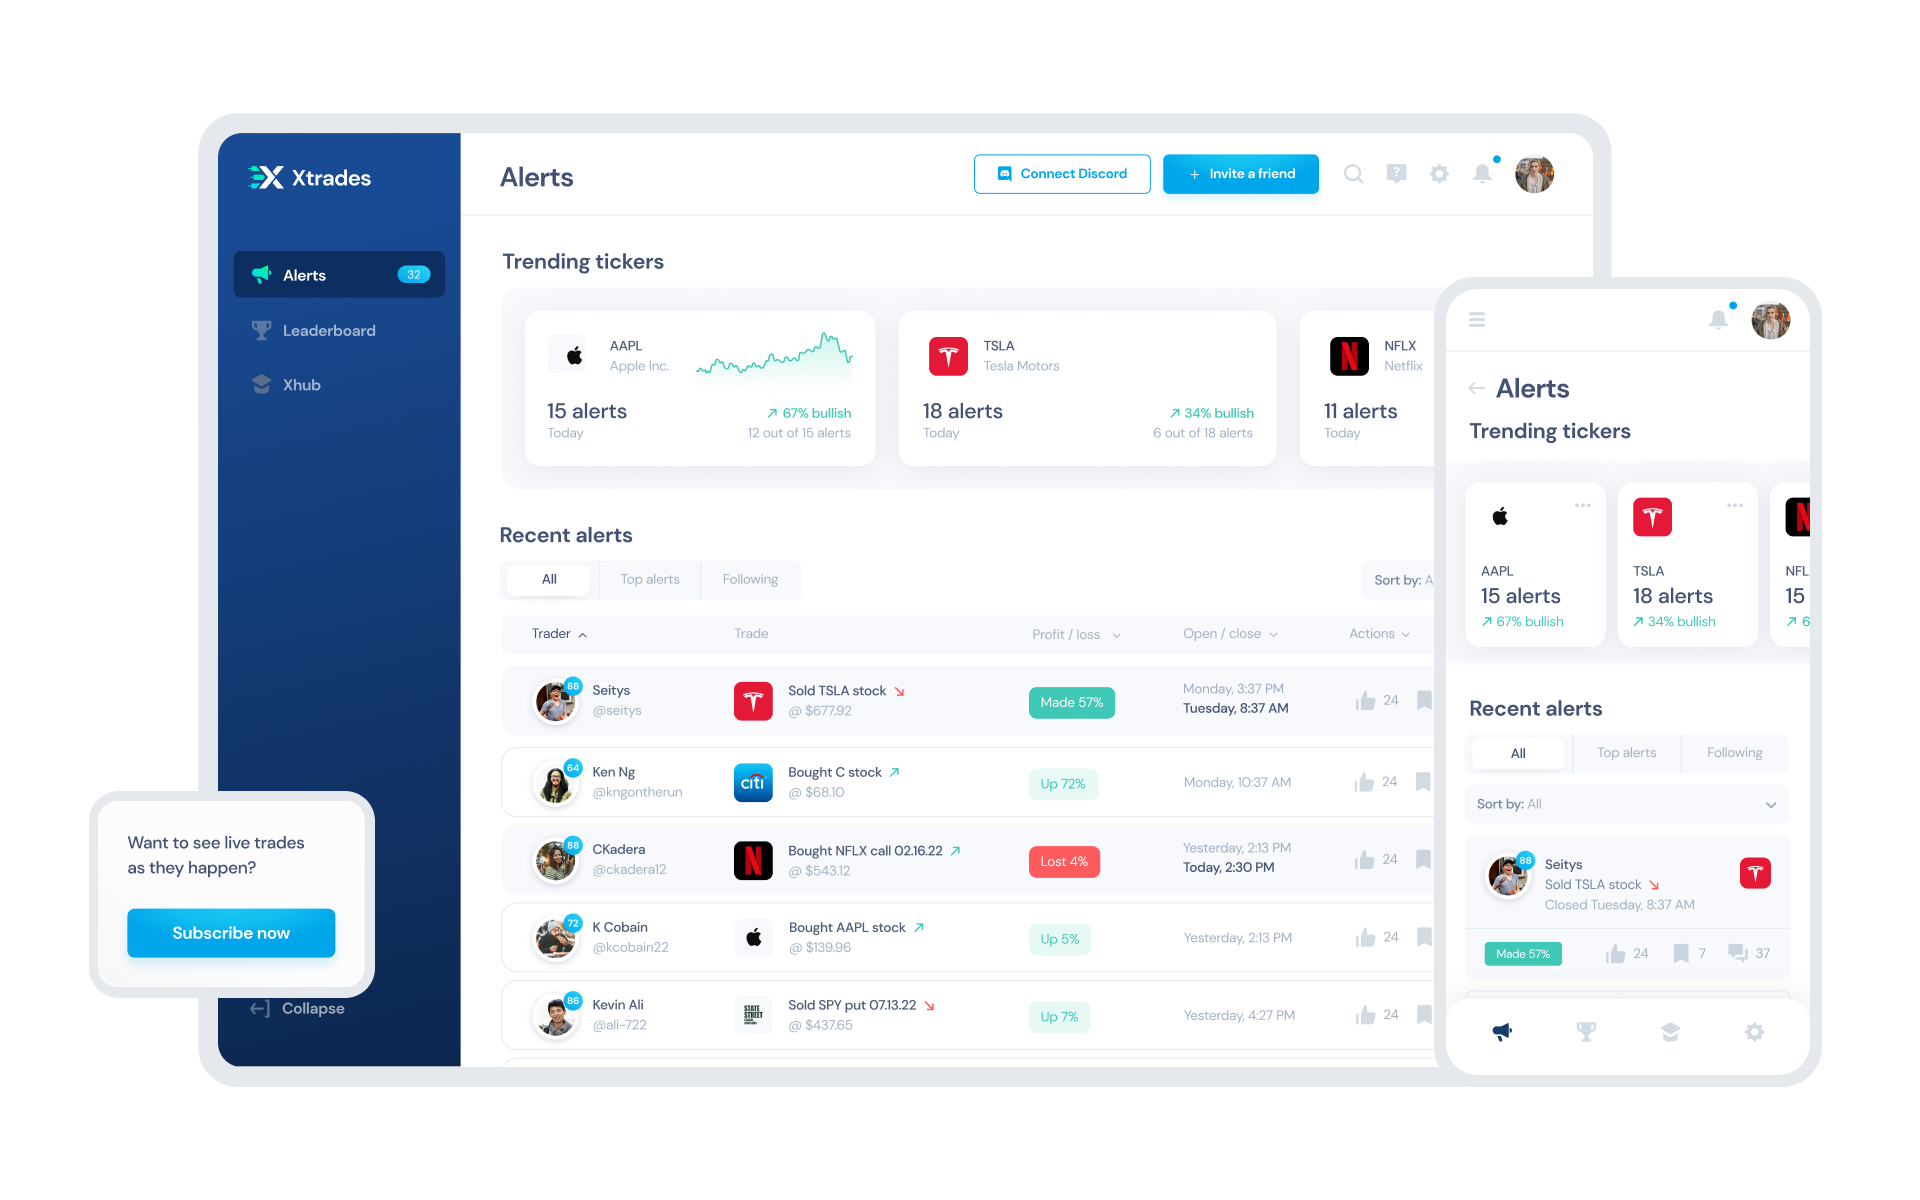
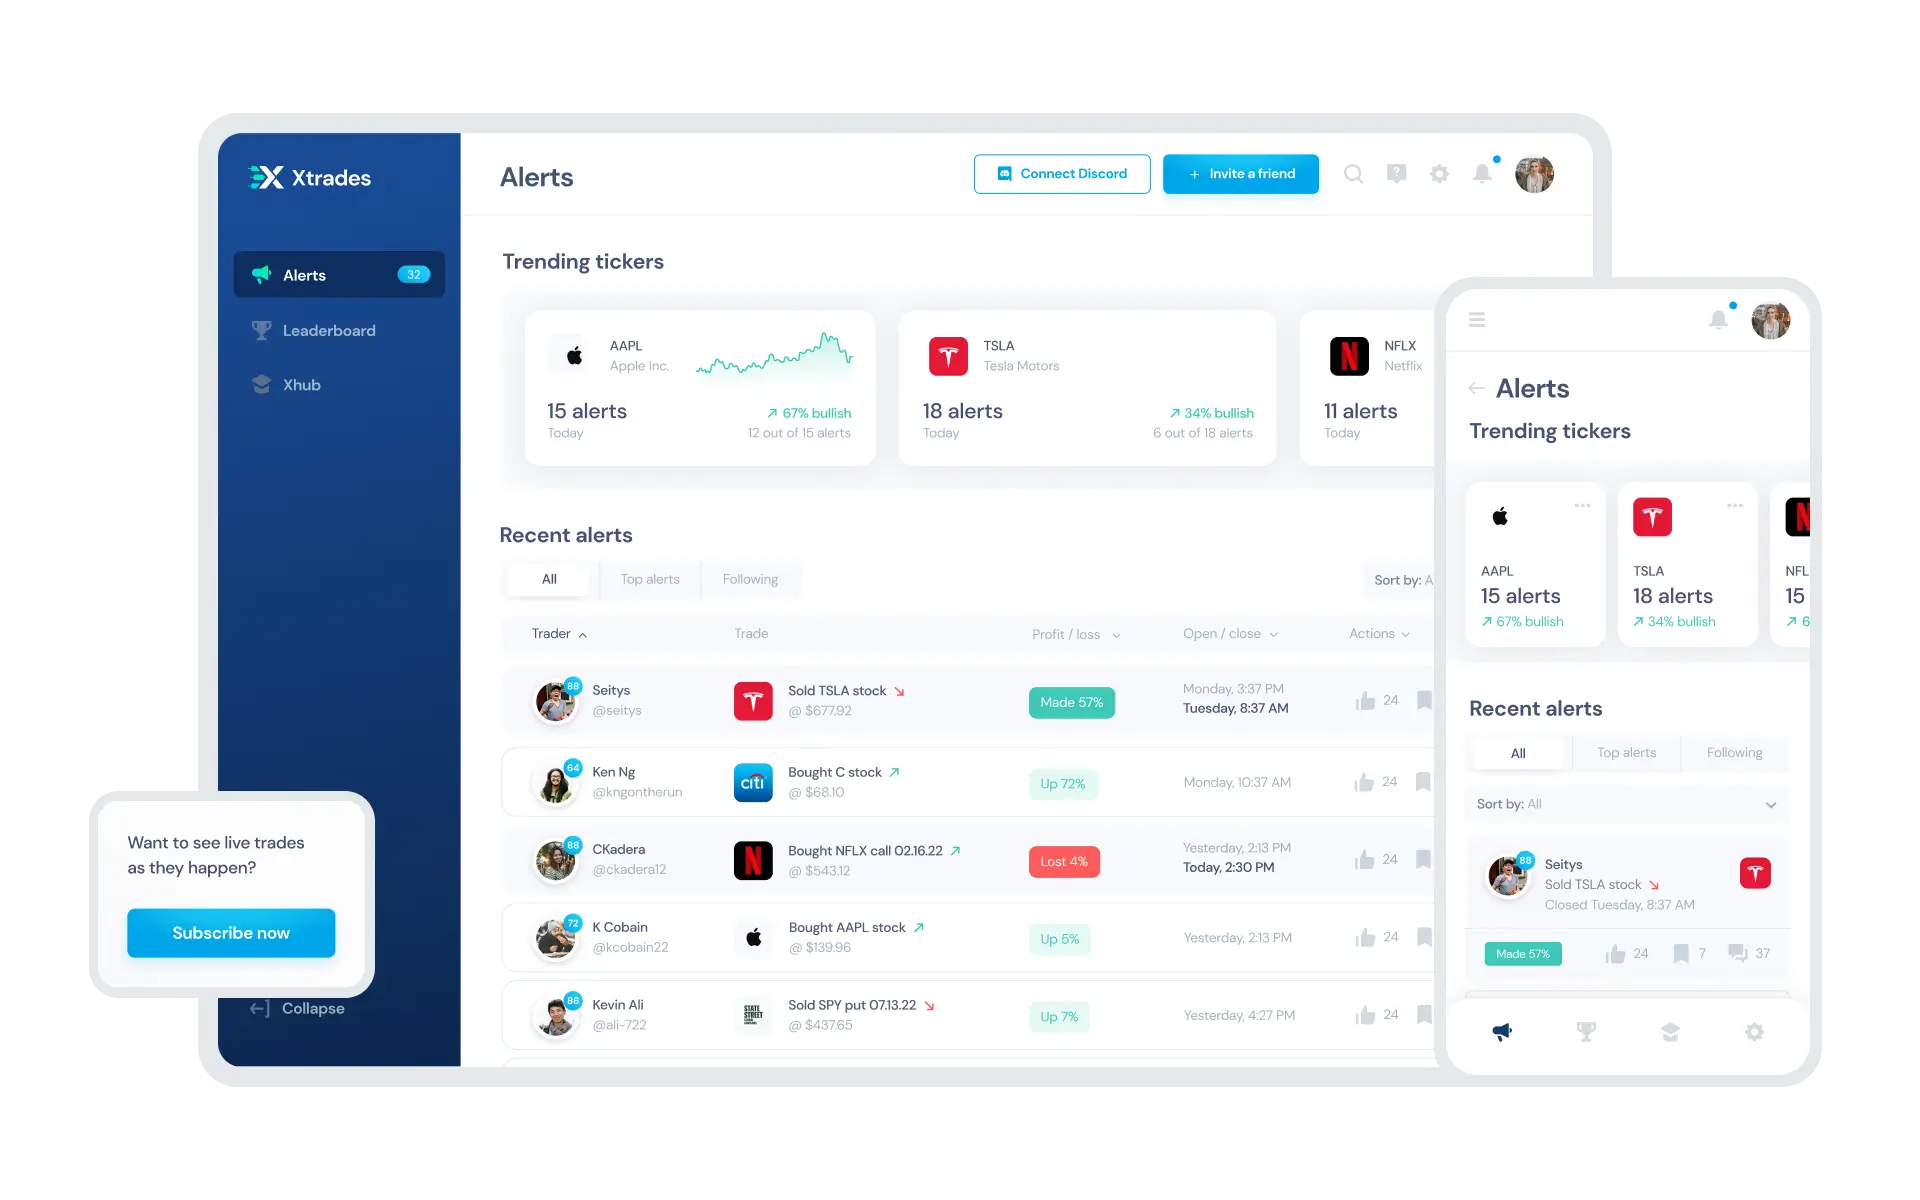
refactor: add alts to all imgs

diff --git a/Xtrades.XtradesMarketingPage/src/app/shared/components/blog-post/blog-post-11/blog-post-11.component.html b/Xtrades.XtradesMarketingPage/src/app/shared/components/blog-post/blog-post-11/blog-post-11.component.html
@@ -15,7 +15,7 @@ There are a few different types of social trading platforms out there, but the m
 <br />
 
 <div class="flex center">
-    <img style="margin: 0 auto;" src="../../../../assets/Blog10-pic1.png" />
+    <img style="margin: 0 auto;" src="../../../../assets/Blog10-pic1.png" alt="Xrtrades Icon"/>
 </div>
 
 <br />
@@ -43,7 +43,7 @@ Some of the best social trading platforms on the market today include Xtrades, e
     <li>eToro is one of the largest online brokers and offers a broker-sponsored social trading platform. This platform allows you to connect with other investors who use the same broker and can be a great way to get started with social trading.</li>
     <li>XTrades: Whether you're a beginner or a seasoned pro, our stocks sentiment data application is the perfect way to get the inside scoop on the hottest stocks in the market. With our easy-to-use interface, you can quickly find the stocks that are generating the most buzz and get up-to-the-minute news and insights. By collaborating with other users, you can learn from the best and earn while you build your portfolio.</li>
 
-    <img class="center" src="../../../../assets/Blog10-pic2.png" />
+    <img class="center" src="../../../../assets/Blog10-pic2.png" alt="Xrtrades Icon"/>
 
     <li>TD Ameritrade's thinkorswim platform is an independent social trading platform that offers a variety of features, like news feeds, analysis tools, and educational resources. It is particularly well-suited for experienced investors who want to diversify their portfolios and get new ideas for investments.</li>
     <li>TradingView is another popular independent social trading platform that allows you to connect with other investors and traders. This platform offers a variety of features, like news feeds, charts, and analysis tools. This platform is particularly well-suited for experienced investors who want to get new ideas for investments.</li>

diff --git a/Xtrades.XtradesMarketingPage/src/app/shared/components/blog-post/blog-post-10/blog-post-10.component.html b/Xtrades.XtradesMarketingPage/src/app/shared/components/blog-post/blog-post-10/blog-post-10.component.html
@@ -64,7 +64,7 @@ Stay on top of the latest news and developments affecting your stocks
     <li>When you want to buy or sell a stock: Stock alerts can also help you know when to buy or sell a stock. If you are watching a particular stock and it reaches your target price, you can set up an alert to notify you so that you can make the trade.</li>
 </ol>
 
-<img src="./../../../../assets/1.png" class="blog-image" />
+<img src="./../../../../assets/1.png" class="blog-image" alt="Xrtrades Icon"/>
 
 <h3 class="center">Tips For Getting The Most Out Of Your Stock Alert System</h3>
 
@@ -73,7 +73,7 @@ Stay on top of the latest news and developments affecting your stocks
     <li>Set up multiple alerts: You can usually set up multiple alerts with most stock alert services. This can help get a variety of information. For example, you can set up an alert for when a stock price reaches a certain level or when a market changes.</li>
     <li>Choose the right time frame: When you are setting up your alerts, make sure to choose the right time frame. If you want to be notified immediately, choose a shorter time frame. If you don't mind waiting a little longer, choose a longer time frame.</li>
 
-    <img src="./../../../../assets/2.png" class="blog-image" />
+    <img src="./../../../../assets/2.png" class="blog-image" alt="Xrtrades Icon"/>
 
     <li>Test the service: Before you commit to using a particular stock alert service, make sure to test it out. Set up an alert and see how quickly you are notified. This will help you determine if the service is right for you.</li>
     <li>Find specific analysts or traders to follow instead of taking every call: Stock alerts can be helpful, but don't blindly follow every alert you receive. Instead, try to find specific analysts or traders with good track records and follow their advice.</li>

diff --git a/Xtrades.XtradesMarketingPage/src/app/pages/pro-algo/pro-algo.component.html b/Xtrades.XtradesMarketingPage/src/app/pages/pro-algo/pro-algo.component.html
@@ -128,16 +128,16 @@
     <div>
       <swiper class="swiper" [config]="config">
         <ng-template swiperSlide>
-          <img src="https://xtradescoreprod.blob.core.windows.net/web-images/xtrades.net/image2.png" alt="">
+          <img src="https://xtradescoreprod.blob.core.windows.net/web-images/xtrades.net/image2.png" alt="Xrtrades Icon">
         </ng-template>
         <ng-template swiperSlide>
-          <img src="https://xtradescoreprod.blob.core.windows.net/web-images/xtrades.net/image3.png" alt="">
+          <img src="https://xtradescoreprod.blob.core.windows.net/web-images/xtrades.net/image3.png" alt="Xrtrades Icon">
         </ng-template>
         <ng-template swiperSlide>
-          <img src="https://xtradescoreprod.blob.core.windows.net/web-images/xtrades.net/image4.png" alt="">
+          <img src="https://xtradescoreprod.blob.core.windows.net/web-images/xtrades.net/image4.png" alt="Xrtrades Icon">
         </ng-template>
         <ng-template swiperSlide>
-          <img src="https://xtradescoreprod.blob.core.windows.net/web-images/xtrades.net/image5.png" alt="">
+          <img src="https://xtradescoreprod.blob.core.windows.net/web-images/xtrades.net/image5.png" alt="Xrtrades Icon">
         </ng-template>
       </swiper>
     </div>

diff --git a/Xtrades.XtradesMarketingPage/src/app/shared/components/video-hero/video-hero.component.html b/Xtrades.XtradesMarketingPage/src/app/shared/components/video-hero/video-hero.component.html
@@ -1,8 +1,8 @@
 <div [class.full-width]="playVideo">
     <div class="web-demo" *ngIf="!playVideo">
-      <img #background [class.hidden]="!backgroundLoaded" class="web-demo__img" src="assets/main-img.svg">
-      <img loading="eager" class="web-demo__img web-demo__img--absolute" data-aos="fade-up" [class.hidden]="backgroundLoaded" src="assets/main-img.svg">
-      <img class="web-demo__play-video-arrow cursor-pointer" src="assets/play-circle-solid.svg" (click)="play()">
+      <img #background [class.hidden]="!backgroundLoaded" class="web-demo__img" src="assets/main-img.svg" alt="Xrtrades Icon">
+      <img loading="eager" class="web-demo__img web-demo__img--absolute" data-aos="fade-up" [class.hidden]="backgroundLoaded" src="assets/main-img.svg" alt="Xrtrades Icon">
+      <img class="web-demo__play-video-arrow cursor-pointer" src="assets/play-circle-solid.svg" (click)="play()" alt="Xrtrades Icon">
     </div>
     <video [ngClass]="playVideo ? '' : 'hidden is-height'" #player width="100%" height="100%" controls src="../../../../../assets/videos/Xtrades Quickstart Guide1.mp4" ></video>
 </div>

diff --git a/Xtrades.XtradesMarketingPage/src/app/pages/discount/discount/discount.component.html b/Xtrades.XtradesMarketingPage/src/app/pages/discount/discount/discount.component.html
@@ -156,6 +156,7 @@
           <img
             *ngIf="!registerFormModel.name && isTouched"
             src="../../../../assets/images/error.svg"
+            alt="Icon"
             class="military-discount-form__icon absolute"
           />
         </div>
@@ -188,6 +189,7 @@
             *ngIf="!registerFormModel.discordUsername && isTouched"
             src="../../../../assets/images/error.svg"
             class="military-discount-form__icon absolute"
+            alt="Error Icon"
           />
         </div>
         <div
@@ -221,6 +223,7 @@
             *ngIf="!registerFormModel.email && isTouched"
             src="../../../../assets/images/error.svg"
             class="military-discount-form__icon absolute"
+            alt="Error Icon"
           />
         </div>
         <div
@@ -271,6 +274,7 @@
               *ngIf="!registerFormModel.military && isTouched"
               src="../../../../assets/images/error.svg"
               class="military-discount-form__icon-file shrink"
+              alt="Error Icon"
             />
           </div>
         </ng-template>

diff --git a/Xtrades.XtradesMarketingPage/src/app/shared/components/bottom-social-nav/bottom-social-nav.component.html b/Xtrades.XtradesMarketingPage/src/app/shared/components/bottom-social-nav/bottom-social-nav.component.html
@@ -15,7 +15,8 @@
 <div class="flex justify-content">
   <a href="https://discord.com/invite/xtrades" class="logo-link" target="_blank">
     <div>
-      <img src="../../../../assets/discord.svg" />
+      <img src="../../../../assets/discord.svg" alt="Discord Icon"/>
+
     </div>
   </a>
   <a
@@ -24,7 +25,7 @@
     class="logo-link"
   >
     <div>
-      <img src="../../../../assets/apple.svg" />
+      <img src="../../../../assets/apple.svg" alt="Apple Icon"/>
     </div>
   </a>
   <a
@@ -33,7 +34,7 @@
     class="logo-link align-bottom"
   >
     <div class="flex align-bottom">
-      <img src="../../../../assets/android.svg" class="android-align" />
+      <img src="../../../../assets/android.svg" class="android-align" alt="Android Icon"/>
     </div>
   </a>
 </div>

diff --git a/Xtrades.XtradesMarketingPage/src/app/shared/components/blog-post/blog-post-14/blog-post-14.component.html b/Xtrades.XtradesMarketingPage/src/app/shared/components/blog-post/blog-post-14/blog-post-14.component.html
@@ -43,7 +43,7 @@
 </ol>
 <div class="flex center">
   <img
-    alt=""
+    alt="Trade breakdown"
     style="margin: 0 auto; width: 50%"
     src="../../../../assets/images/Picture2.png"
   />
@@ -69,7 +69,7 @@
 
 <div class="flex center">
   <img
-    alt=""
+    alt="Discord channal"
     style="margin: 0 auto; width: 50%"
     src="../../../../assets/images/Picture1.png"
   />
@@ -88,7 +88,7 @@
 
 <div class="flex center">
   <img
-    alt=""
+    alt="Xtrades Discord channel"
     style="margin: 0 auto; width: 50%"
     src="../../../../assets/images/Picture3.png"
   />

diff --git a/Xtrades.XtradesMarketingPage/src/app/pages/ourtraders/ourtraders/ourtraders.component.html b/Xtrades.XtradesMarketingPage/src/app/pages/ourtraders/ourtraders/ourtraders.component.html
@@ -116,7 +116,7 @@
       <svg width="24" height="24" viewBox="0 0 24 24" class="mask-1FEkla svg-2azL_l" aria-hidden="true">
                 <foreignObject x="0" y="0" width="24" height="24" mask="url(#svg-mask-avatar-default)">
                   <div class="avatarStack-3vfSFa">
-                    <img [src]="trader.icon" alt=" " class="avatar-b5OQ1N" aria-hidden="true">
+                    <img [src]="trader.icon" alt="Trader Icon" class="avatar-b5OQ1N" aria-hidden="true">
                   </div>
                 </foreignObject>
       </svg>

diff --git a/Xtrades.XtradesMarketingPage/src/app/shared/components/mobile-app-link/mobile-app-link.component.html b/Xtrades.XtradesMarketingPage/src/app/shared/components/mobile-app-link/mobile-app-link.component.html
@@ -4,16 +4,19 @@
       *ngIf="icon === 'android'"
       src="../../../../assets/android-bg.svg"
       class="android-align"
+      alt="Android Icon"
     />
     <img
       *ngIf="icon === 'discord'"
       src="../../../../assets/discord-bg.svg"
       class="android-align"
+      alt="Discord Icon"
     />
     <img
       *ngIf="icon === 'ios'"
       src="../../../../assets/apple-bg.svg"
       class="android-align"
+      alt="IOs Icon"
     />
   </span>
   <span class="label">{{ label }}</span>

diff --git a/Xtrades.XtradesMarketingPage/src/app/shared/components/blog-post/blog-post-16/blog-post-16.component.html b/Xtrades.XtradesMarketingPage/src/app/shared/components/blog-post/blog-post-16/blog-post-16.component.html
@@ -34,6 +34,7 @@
   <img
     style="margin: 0 auto; width: 50%"
     src="../../../../assets/images/Picture6.png"
+    alt="Xrtrades Icon"
   />
 </div>
 
@@ -54,6 +55,7 @@
   <img
     style="margin: 0 auto; width: 50%"
     src="../../../../assets/images/Picture7.png"
+    alt="Xrtrades Icon"
   />
 </div>
 
@@ -79,5 +81,6 @@
   <img
     style="margin: 0 auto; width: 50%"
     src="../../../../assets/images/Picture8.png"
+    alt="Xrtrades Icon"
   />
 </div>

diff --git a/Xtrades.XtradesMarketingPage/src/app/shared/components/card/card.component.html b/Xtrades.XtradesMarketingPage/src/app/shared/components/card/card.component.html
@@ -8,7 +8,7 @@
   <div *ngIf="backgroundNoise" class="background-noise"></div>
   <div class="default">
     <div *ngIf="titleImgSrc" class="card__image">
-      <img lazy appImgLazy [src]="titleImgSrc" alt="" />
+      <img lazy appImgLazy [src]="titleImgSrc" alt="Icon" />
     </div>
     <ng-container *ngIf="screenService.isMobile">
       <div

diff --git a/Xtrades.XtradesMarketingPage/src/app/shared/components/blog-post/blog-post-15/blog-post-15.component.html b/Xtrades.XtradesMarketingPage/src/app/shared/components/blog-post/blog-post-15/blog-post-15.component.html
@@ -23,6 +23,7 @@
   <img
     style="margin: 0 auto; width: 50%"
     src="../../../../assets/images/Picture4.png"
+    alt="Xrtrades Icon"
   />
 </div>
 
@@ -59,6 +60,7 @@
   <img
     style="margin: 0 auto; width: 50%"
     src="../../../../assets/images/Picture5.png"
+    alt="Xrtrades Icon"
   />
 </div>
 
